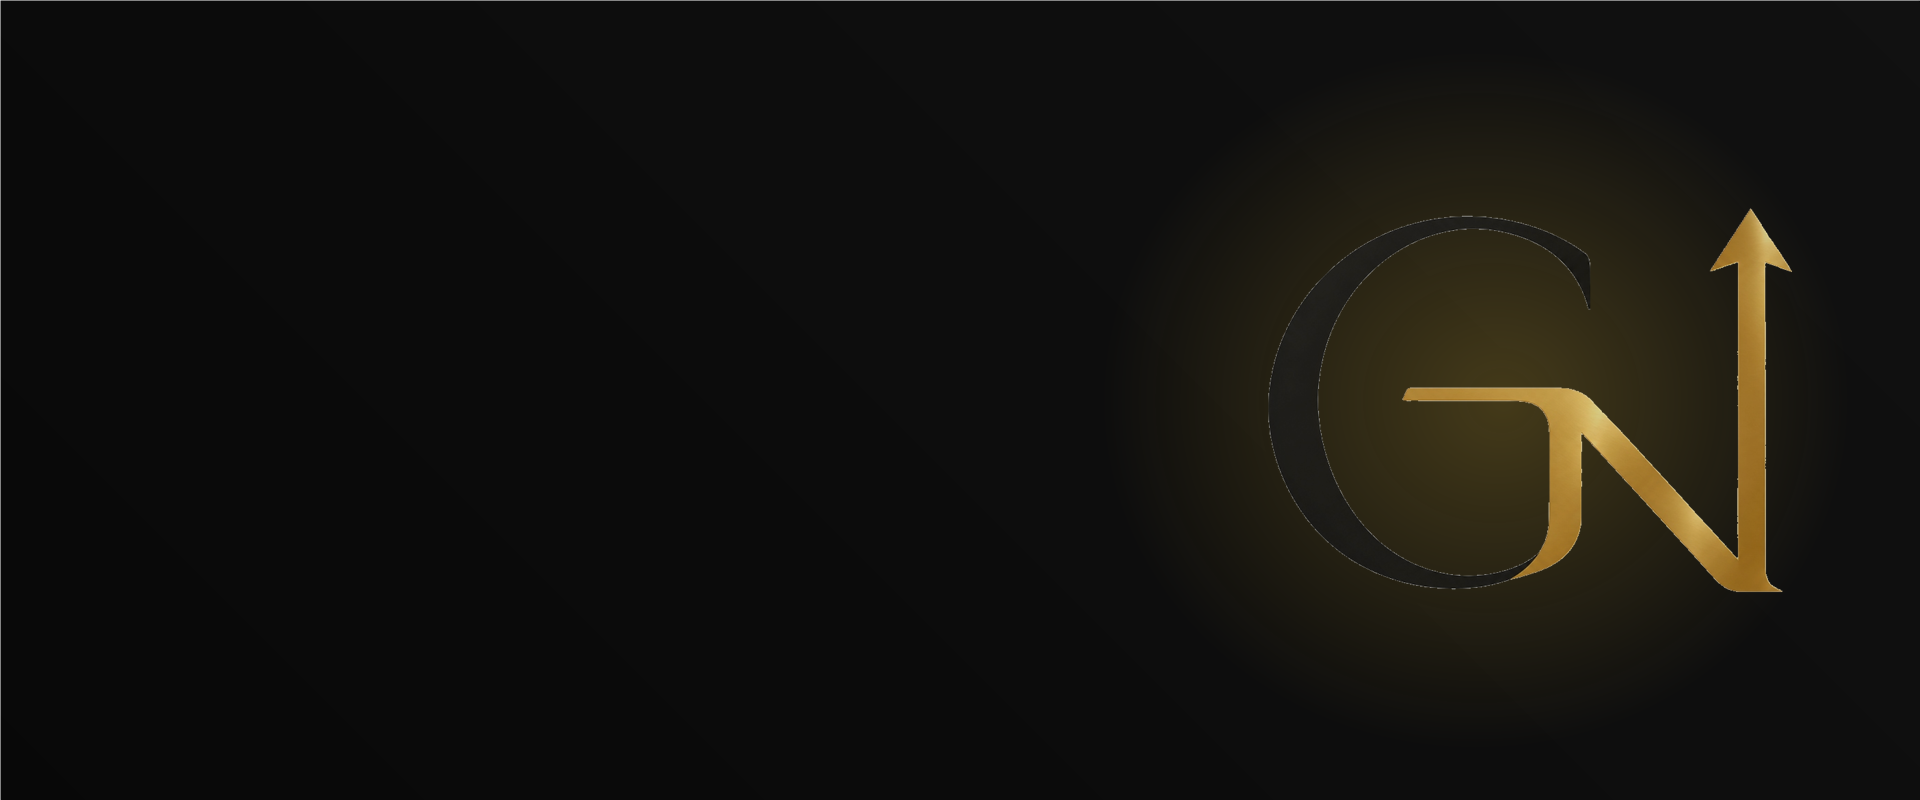
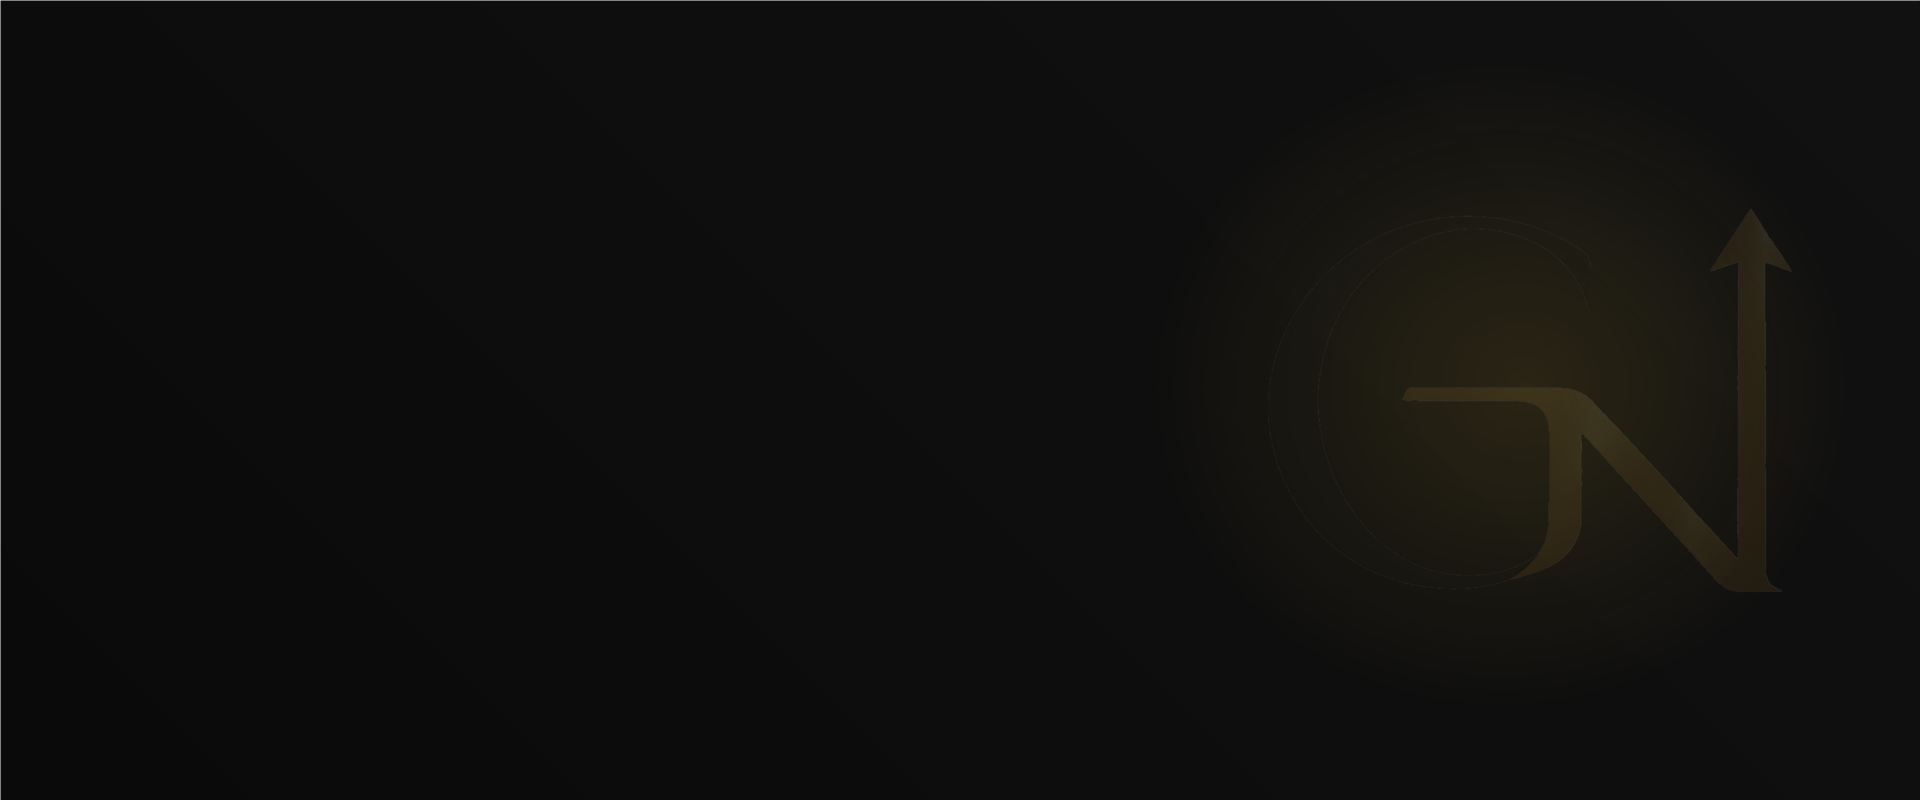
Make background watermarks very mild and update brand shine to 3 prominent sweeps on load/refresh

Changed region(s): [[0.7188, 0.25, 0.9375, 0.75]]

diff --git a/assets/css/custom.css b/assets/css/custom.css
@@ -422,30 +422,56 @@
     display: inline-block;
     vertical-align: middle;
     background: linear-gradient(
-        110deg,
-        #9A7B1C 0%,
-        #D4AF37 20%,
-        #FFF4B8 40%,
+        115deg,
+        #C59B27 0%,
+        #D4AF37 22%,
+        #B8860B 38%,
+        #FFFDE0 46%,
         #FFFFFF 50%,
-        #FFF4B8 60%,
-        #D4AF37 80%,
-        #9A7B1C 100%
+        #FFFDE0 54%,
+        #B8860B 62%,
+        #D4AF37 78%,
+        #C59B27 100%
     );
-    background-size: 250% auto;
+    background-size: 300% 100%;
     -webkit-background-clip: text;
     background-clip: text;
     -webkit-text-fill-color: transparent;
-    animation: goldBrandShine 3s linear infinite;
-    filter: drop-shadow(0 0 8px rgba(212, 175, 55, 0.45));
+    animation: goldBrandShine 1.8s cubic-bezier(0.25, 1, 0.5, 1) 0.3s 3 normal forwards;
+    filter: drop-shadow(0 0 6px rgba(212, 175, 55, 0.45));
     user-select: none;
 }
 
 @keyframes goldBrandShine {
     0% {
-        background-position: 250% center;
+        background-position: 150% center;
+        filter: drop-shadow(0 0 6px rgba(212, 175, 55, 0.45));
+    }
+    50% {
+        filter: drop-shadow(0 0 16px rgba(255, 245, 160, 0.95)) drop-shadow(0 0 6px rgba(212, 175, 55, 0.9));
     }
     100% {
-        background-position: -50% center;
+        background-position: -150% center;
+        filter: drop-shadow(0 0 6px rgba(212, 175, 55, 0.45));
+    }
+}
+
+.navbar-brand:hover .brand-company-name,
+.footer_logo a:hover .brand-company-name {
+    animation: goldBrandShineHover 1.2s ease-in-out 1 normal forwards;
+}
+
+@keyframes goldBrandShineHover {
+    0% {
+        background-position: 150% center;
+        filter: drop-shadow(0 0 6px rgba(212, 175, 55, 0.45));
+    }
+    50% {
+        filter: drop-shadow(0 0 16px rgba(255, 245, 160, 0.95)) drop-shadow(0 0 6px rgba(212, 175, 55, 0.9));
+    }
+    100% {
+        background-position: -150% center;
+        filter: drop-shadow(0 0 6px rgba(212, 175, 55, 0.45));
     }
 }
 
